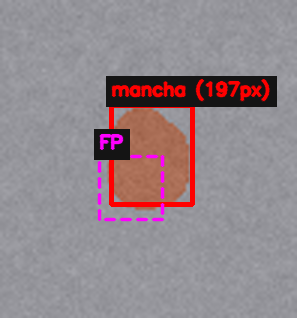
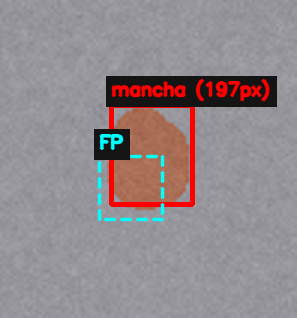
Padroniza cores de erro no overlay e corrige explicação da figura de falso negativo
Tracejado magenta e ciano significavam coisas opostas em cada figura de
análise de erro. Move a codificação pro código do overlay
(desenhar_marcacao_erro, COR_GT_NAO_DETECTADO, COR_DETECCAO_INCORRETA,
cor_da_classe) e padroniza: magenta sempre marca defeito real não
detectado, ciano sempre marca detecção sem defeito real correspondente,
contorno sólido na cor da classe continua marcando detecção válida.

Também corrige a legenda da figura de falso negativo: verifiquei a árvore
de decisão treinada e a razão de aspecto não é o que explica os fragmentos
classificados como risco (é a característica menos usada pela árvore,
2,9% de importância) — quem decide são circularidade e solidez. A legenda
agora reflete essa causa real, e uma legenda única antes das duas figuras
explica a codificação de cores comum às duas.

Changed region(s): [[0.303, 0.4811, 0.5758, 0.7075], [0.3333, 0.3962, 0.4242, 0.4811]]

diff --git a/src/inspecao/overlay.py b/src/inspecao/overlay.py
@@ -14,6 +14,12 @@ _COR_POR_TIPO = {
 }
 _COR_PADRAO = (0, 255, 0)
 
+# cores usadas só na ilustração de erro de avaliação (docs/img/erro_*.png),
+# não no overlay normal de inspeção. Padronizadas pra não significar coisas
+# diferentes em figuras diferentes:
+COR_GT_NAO_DETECTADO = (255, 0, 255)     # magenta: defeito real que nenhuma detecção achou
+COR_DETECCAO_INCORRETA = (255, 255, 0)   # ciano: detecção sem defeito real correspondente
+
 _FONTE = cv2.FONT_HERSHEY_SIMPLEX
 _ESCALA_FONTE = 0.6
 _ESPESSURA_TEXTO = 2
@@ -51,6 +57,47 @@ def _desenhar_rotulo(imagem: np.ndarray, texto: str, x: int, y: int, cor: tuple,
     cv2.rectangle(imagem, (caixa[0], caixa[1]), (caixa[2], caixa[3]), _COR_FUNDO_ROTULO, -1)
     cv2.putText(imagem, texto, (x1, y1), _FONTE, _ESCALA_FONTE, cor, _ESPESSURA_TEXTO, cv2.LINE_AA)
     ocupados.append(caixa)
+
+
+def cor_da_classe(tipo: str) -> tuple:
+    """Cor (BGR) usada pra uma classe de defeito no overlay normal — azul/laranja/vermelho."""
+    return _COR_POR_TIPO.get(tipo, _COR_PADRAO)
+
+
+def _linha_tracejada(imagem: np.ndarray, pt1: tuple, pt2: tuple, cor: tuple, espessura: int = 2, traco: int = 9, vao: int = 7) -> None:
+    pt1 = np.array(pt1, dtype=float)
+    pt2 = np.array(pt2, dtype=float)
+    dist = np.linalg.norm(pt2 - pt1)
+    if dist == 0:
+        return
+    direcao = (pt2 - pt1) / dist
+    passo = traco + vao
+    d = 0.0
+    while d < dist:
+        ini = pt1 + direcao * d
+        fim = pt1 + direcao * min(d + traco, dist)
+        cv2.line(imagem, tuple(ini.astype(int)), tuple(fim.astype(int)), cor, espessura, cv2.LINE_AA)
+        d += passo
+
+
+def desenhar_marcacao_erro(
+    imagem: np.ndarray, bbox: tuple, cor: tuple, rotulo: str, ocupados: list[tuple] | None = None
+) -> None:
+    """Marca uma região de erro de avaliação (falso positivo ou falso negativo) com um
+    retângulo tracejado e um rótulo curto em ASCII (sem acento — a fonte do cv2.putText
+    não suporta acentuação).
+
+    Usada só na geração das figuras de análise de erro da documentação
+    (`docs/img/erro_falso_positivo.png`, `docs/img/erro_falso_negativo.png`); não faz
+    parte do overlay de inspeção normal (`desenhar_overlay`).
+    """
+    x, y, w, h = bbox
+    x1, y1, x2, y2 = x - 6, y - 6, x + w + 6, y + h + 6
+    _linha_tracejada(imagem, (x1, y1), (x2, y1), cor)
+    _linha_tracejada(imagem, (x2, y1), (x2, y2), cor)
+    _linha_tracejada(imagem, (x2, y2), (x1, y2), cor)
+    _linha_tracejada(imagem, (x1, y2), (x1, y1), cor)
+    _desenhar_rotulo(imagem, rotulo, x1, y1 - 8, cor, ocupados if ocupados is not None else [])
 
 
 def desenhar_overlay(imagem: np.ndarray, deteccoes: list[dict]) -> np.ndarray:

diff --git a/README.pt-BR.md b/README.pt-BR.md
@@ -121,25 +121,35 @@ direto do contorno detectado, não de uma estimativa.
 
 `mancha` é a classe com pior precisão das três (0,683 com ML, 0,512 com
 regras — ver tabela acima). Abaixo estão dois erros reais tirados direto da
-avaliação no conjunto de teste (`seed=999`), não montados pra ilustração. O
-tracejado magenta marca o defeito ou a detecção envolvida no erro; o rótulo
-`FP`/`FN` identifica qual dos dois é.
+avaliação no conjunto de teste (`seed=999`), não montados pra ilustração.
+
+Nas duas figuras, contorno sólido na cor da classe (azul = furo_ausente,
+laranja = risco, vermelho = mancha) marca uma detecção válida; tracejado
+**magenta** marca um defeito real (ground truth) que nenhuma detecção
+alcançou; tracejado **ciano** marca uma detecção sem nenhum defeito real
+correspondente.
 
 **Falso positivo** — `dados/teste_imagens/img_0034.png`, classificador ML:
 
 ![falso positivo: uma mancha real dividida em dois pedaços, um deles virando uma deteccao extra sem defeito correspondente](docs/img/erro_falso_positivo.png)
 
 *A segmentação quebrou uma única mancha real em duas partes. A parte de cima
-virou a detecção correta; a de baixo sobrou como fragmento sem defeito real
-correspondente.*
+virou a detecção correta; a de baixo (tracejado ciano) sobrou como fragmento
+sem defeito real correspondente.*
 
 **Falso negativo** — `dados/teste_imagens/img_0013.png`, classificador ML:
 
-![falso negativo: uma mancha real fragmentada em pedacos pequenos demais pra bater com o ground truth](docs/img/erro_falso_negativo.png)
+![falso negativo: uma mancha real fragmentada em pedacos pequenos demais pra bater com o ground truth, com fragmentos classificados como risco e mancha](docs/img/erro_falso_negativo.png)
 
-*Mancha real de 2983px que a segmentação fragmentou em pedaços pequenos,
-classificados individualmente; nenhum fragmento atingiu IoU ≥ 0,3 com o
-defeito real, então o defeito inteiro ficou sem detecção.*
+*Mancha real de 2983px (tracejado magenta) que a segmentação fragmentou em
+quatro pedaços pequenos e irregulares; nenhum atingiu IoU ≥ 0,3 com o
+defeito real, então a mancha inteira ficou sem detecção. A classificação
+dos fragmentos também saiu errada, mas não pelo motivo mais óbvio: a árvore
+de decisão treinada decide principalmente por circularidade e solidez, não
+pela razão de aspecto (o critério que define `risco` no classificador de
+regras) — o fragmento de maior razão de aspecto dos quatro foi justamente o
+que virou `mancha` (vermelho), enquanto os outros três, com solidez mais
+alta, caíram do lado `risco` (laranja) da árvore.*
 
 Os dois casos têm a mesma causa raiz: fragmentação na etapa de segmentação,
 não erro do classificador. É exatamente o que motiva o primeiro item de

diff --git a/README.md b/README.md
@@ -124,24 +124,34 @@ contour, not an estimate.
 `mancha` has the lowest precision of the three classes (0.683 with ML, 0.512
 with rules — see the table above). Below are two real failures pulled
 straight from the evaluation run on the test set (`seed=999`), not staged for
-the screenshot. The dashed magenta outline marks the defect or detection
-involved in the error; the `FP`/`FN` tag identifies which one it is.
+the screenshot.
+
+In both figures, a solid contour in the class color (blue = furo_ausente,
+orange = risco, red = mancha) marks a valid detection; a dashed **magenta**
+outline marks a real defect (ground truth) that no detection reached; a
+dashed **cyan** outline marks a detection with no matching real defect.
 
 **False positive** — `dados/teste_imagens/img_0034.png`, ML classifier:
 
 ![false positive: a real mancha split into two pieces, one of them turning into an extra detection with no matching defect](docs/img/erro_falso_positivo.png)
 
 *Segmentation split one real stain into two pieces. The top one became the
-correct detection; the bottom one was left over as a fragment with no real
-defect of its own.*
+correct detection; the bottom one (dashed cyan) was left over as a fragment
+with no real defect of its own.*
 
 **False negative** — `dados/teste_imagens/img_0013.png`, ML classifier:
 
-![false negative: a real mancha broken into fragments too small to match the ground truth](docs/img/erro_falso_negativo.png)
+![false negative: a real mancha broken into fragments too small to match the ground truth, with fragments classified as both risco and mancha](docs/img/erro_falso_negativo.png)
 
-*A real 2983px stain that segmentation fragmented into small pieces, each
-classified individually; no fragment reached IoU >= 0.3 against the real
-defect, so the whole defect ended up undetected.*
+*A real 2983px stain (dashed magenta) that segmentation fragmented into four
+small, irregular pieces; none reached IoU >= 0.3 against the real defect, so
+the whole stain ended up undetected. The fragments' classification was also
+wrong, but not for the obvious reason: the trained decision tree decides
+mainly on circularity and solidity, not on aspect ratio (the criterion that
+defines `risco` in the rule-based classifier) — the fragment with the
+highest aspect ratio of the four is precisely the one that came out as
+`mancha` (red), while the other three, with higher solidity, fell on the
+`risco` (orange) side of the tree.*
 
 Both cases share the same root cause: fragmentation in the segmentation
 step, not a classifier mistake. That's exactly what motivates the first item
